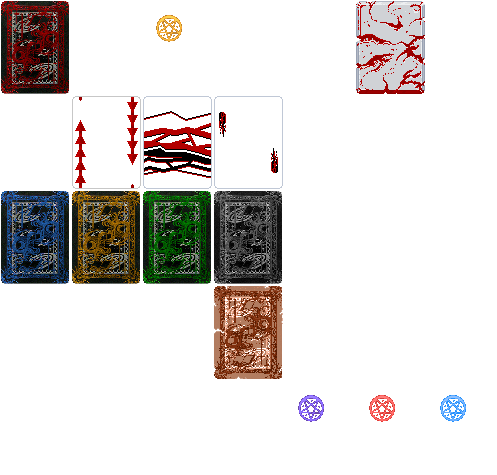
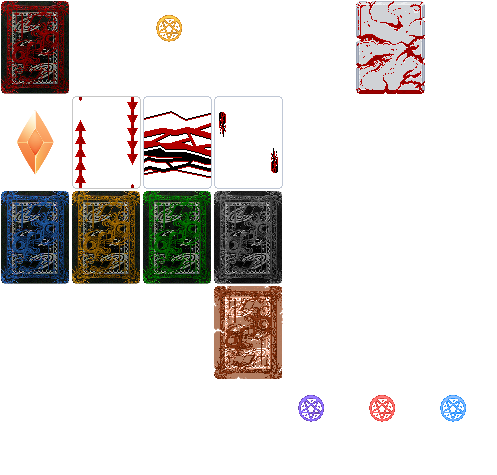
Added Asmodean crystal over Soul.

Changed region(s): [[0.0302, 0.2358, 0.1207, 0.3832]]

diff --git a/README.md b/README.md
@@ -7,12 +7,13 @@ This mod aims to be an overhaul of Balatro adding in content as if it was an off
 * Custom Deck <sub>Low and High Contrast versions</sub>
 * Custom Suit Names <sub>Toggleable</sub>
 * Custom UI Image <sub>Toggleable</sub>
-* 5 Card Backs <sub>Malverk</sub>
+* 6 Card Backs <sub>Malverk</sub>
 * 2 Enhancers <sub>Malverk</sub>
 * 2 **New** Jokers
 * 2 **New** Seals
 * 14 Jokers <sub>Malverk</sub>
 * 4 Seals <sub>Malverk</sub>
+* 1 Spectrals (Soul) <sub>MalverK</sub>
 * 5 Sleeves
 * Tarots <sub>Malverk</sub>
 * 16 **New** Quips <sub>Toggleable</sub>
